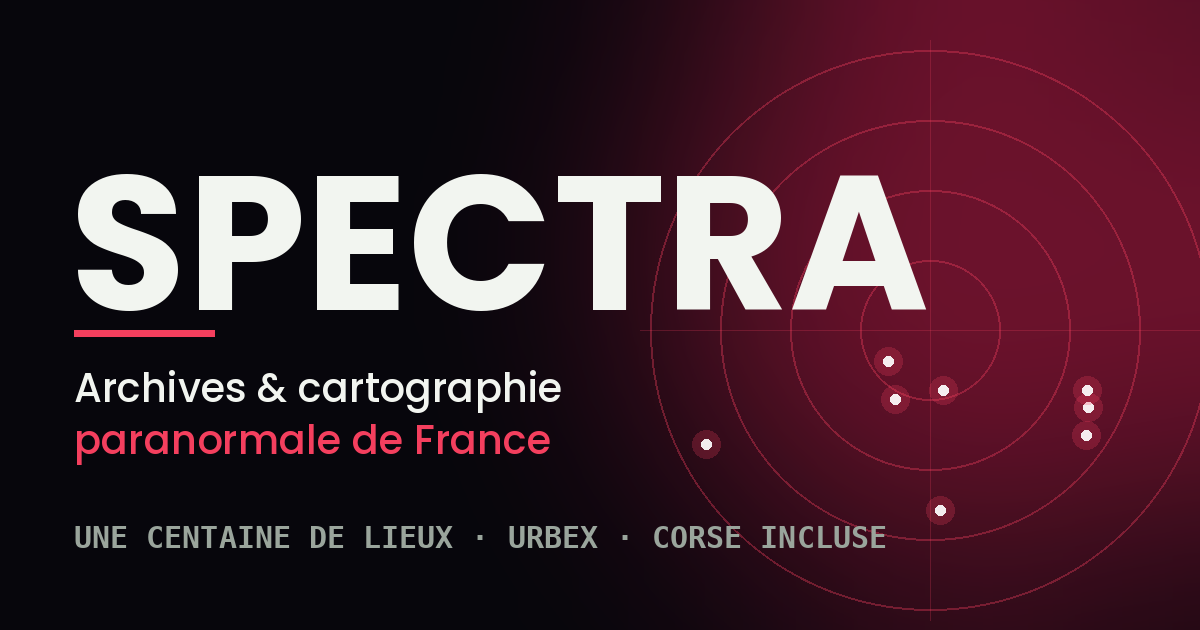
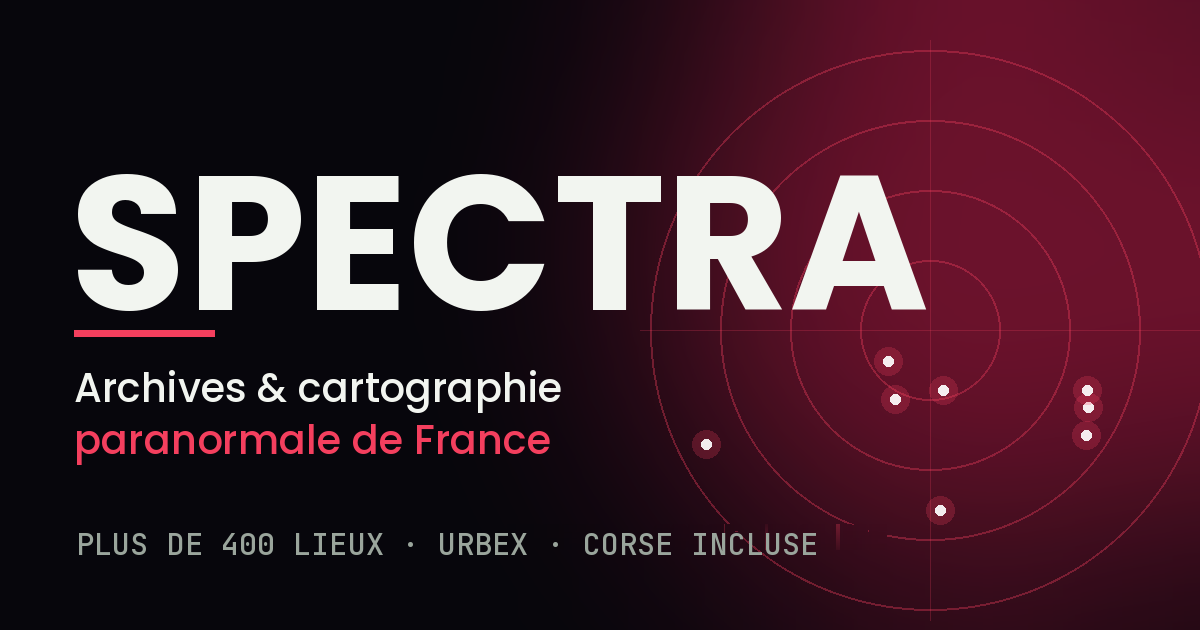
320 nouveaux lieux sourcés, textes alignés sur la réalité, recherche corrigée
- Carte : 418 lieux (98 + 320 issus de la Base Mérimée, source citée sur chaque fiche)
- Fiches : nature du lieu (phénomènes signalés / légende locale / lieu documenté) et lien vers la notice officielle
- Promesse « mise à jour mensuelle » retirée (FAQ, CGV) : enrichissement régulier, sans fréquence garantie
- FAQ « D'où viennent les lieux ? » réécrite honnêtement ; crédit Base Mérimée (Licence Ouverte 2.0) dans les mentions légales
- Compteurs exacts (418), meta/OG « plus de 400 lieux », nouvelle image de partage
- Carte en canvas (performances avec 418 points), liste explicite des colonnes lues
- Correctif : un clic sur un résultat de recherche était perdu (la liste se reconstruisait au changement de focus)

Claude-Session: https://claude.ai/code/session_01CKe4XveHQUM5tHFRDoZMZk

Changed region(s): [[0.0617, 0.8143, 0.74, 0.9048]]

diff --git a/index.html b/index.html
@@ -4,7 +4,7 @@
 <meta charset="utf-8">
 <meta name="viewport" content="width=device-width, initial-scale=1, viewport-fit=cover">
 <title>SPECTRA – Archives &amp; Cartographie Paranormale de France</title>
-<meta name="description" content="Carte interactive d’une centaine de lieux hantés, urbex et légendes de France et de Corse : histoire, phénomènes signalés et indice de peur pour chaque lieu.">
+<meta name="description" content="Carte interactive de plus de 400 lieux de France et de Corse : hantés, légendes, urbex et histoire sombre. Chaque fiche cite sa source et donne un indice de peur.">
 <link rel="canonical" href="https://spectracarte.com/">
 <meta name="theme-color" content="#07060C">
 <link rel="icon" href="/favicon.svg" type="image/svg+xml">
@@ -16,14 +16,14 @@
 <meta property="og:locale" content="fr_FR">
 <meta property="og:url" content="https://spectracarte.com/">
 <meta property="og:title" content="SPECTRA – Archives &amp; Cartographie Paranormale de France">
-<meta property="og:description" content="Une centaine de lieux hantés et urbex en France et en Corse, sur une carte interactive. Découvre ceux qui sont près de chez toi.">
+<meta property="og:description" content="Plus de 400 lieux hantés, urbex et à l’histoire sombre en France et en Corse, sur une carte interactive. Découvre ceux qui sont près de chez toi.">
 <meta property="og:image" content="https://spectracarte.com/og.png">
 <meta property="og:image:width" content="1200">
 <meta property="og:image:height" content="630">
 <meta property="og:image:alt" content="SPECTRA, archives et cartographie paranormale de France">
 <meta name="twitter:card" content="summary_large_image">
 <meta name="twitter:title" content="SPECTRA – Archives &amp; Cartographie Paranormale de France">
-<meta name="twitter:description" content="Une centaine de lieux hantés et urbex en France et en Corse, sur une carte interactive.">
+<meta name="twitter:description" content="Plus de 400 lieux hantés, urbex et à l’histoire sombre en France et en Corse, sur une carte interactive.">
 <meta name="twitter:image" content="https://spectracarte.com/og.png">
 <link rel="preload" href="/fonts/oswald-700.woff2" as="font" type="font/woff2" crossorigin>
 <link rel="preload" href="/fonts/plus-jakarta-sans-500.woff2" as="font" type="font/woff2" crossorigin>
@@ -31,7 +31,7 @@
 <link rel="stylesheet" href="/style.css?v=9c514f4e">
 <script type="application/ld+json">{"@context": "https://schema.org", "@graph": [{"@type": "WebSite", "@id": "https://spectracarte.com/#site", "url": "https://spectracarte.com/", "name": "SPECTRA", "inLanguage": "fr-FR", "description": "Carte interactive de lieux hantés, urbex et légendes de France et de Corse."}, {"@type": "Organization", "@id": "https://spectracarte.com/#org", "name": "SPECTRA", "url": "https://spectracarte.com/", "logo": "https://spectracarte.com/icon-512.png", "email": "spectraa@proton.me"}]}</script>
 <script defer src="/vendor/supabase-js-2.118.0.js"></script>
-<script defer src="/app.js?v=ecd54326"></script>
+<script defer src="/app.js?v=5376c55c"></script>
 </head>
 <body>
 <a class="skip" href="#main">Aller au contenu</a>
@@ -44,14 +44,14 @@
 <section class="hero"><div class="wm" aria-hidden="true">Spectra</div><div class="w">
 <h1>EXPLORE LES LIEUX LES PLUS HANTÉS <span class="g">DE FRANCE.</span></h1>
 <button class="btn big" data-a="go" style="max-width:420px;margin:0">Explorer maintenant →</button>
-<div class="ph" aria-hidden="true"><div class="st"><span>9:41</span><span>●●● ▮</span></div><div class="pt"><b class="an">SPECTRA</b><span class="bg2"><span class="nbl">98</span> Spots Actifs</span></div><div class="sr">🔍 Rennes, Paris, Marseille, Corse...</div><div id="m1"></div><div class="pc"><div><b class="an">CHÂTEAU DE FOUGERET (86)</b><div class="mono sm g">Indice de peur 5/5</div></div><span class="btn s">Inspecter →</span></div></div>
-<div class="trust"><i>✓</i><div style="text-align:left"><b class="an" style="font-size:1rem">ARCHIVES PARANORMALES &amp; URBEX DE FRANCE 🇫🇷</b><div class="mut sm"><span class="nbl">98</span> lieux documentés (France &amp; Corse) • Mise à jour mensuelle</div></div></div>
+<div class="ph" aria-hidden="true"><div class="st"><span>9:41</span><span>●●● ▮</span></div><div class="pt"><b class="an">SPECTRA</b><span class="bg2"><span class="nbl">418</span> lieux</span></div><div class="sr">🔍 Rennes, Paris, Marseille, Corse...</div><div id="m1"></div><div class="pc"><div><b class="an">CHÂTEAU DE FOUGERET (86)</b><div class="mono sm g">Indice de peur 5/5</div></div><span class="btn s">Inspecter →</span></div></div>
+<div class="trust"><i>✓</i><div style="text-align:left"><b class="an" style="font-size:1rem">ARCHIVES PARANORMALES &amp; URBEX DE FRANCE 🇫🇷</b><div class="mut sm"><span class="nbl">418</span> lieux documentés (France &amp; Corse) • Sources citées</div></div></div>
 </div></section>
 <section class="sec" id="spots"><div class="w hrow"><h2>TOP SPOTS <span class="g">EN FRANCE</span></h2><div><button class="ar" data-a="sc" data-t="#cs" data-d="-1" aria-label="Précédent">‹</button><button class="ar" data-a="sc" data-t="#cs" data-d="1" aria-label="Suivant">›</button></div></div><div class="car" id="cs" tabindex="0" role="region" aria-label="Top spots en France"><article class="spot" style="background:radial-gradient(circle at 50% 28%,#3f1228,#07060C 78%)"><em>🏰</em><img src="https://commons.wikimedia.org/wiki/Special:FilePath/Fougeret_castle_86.JPG?width=640" alt="CHÂTEAU DE FOUGERET" loading="lazy" referrerpolicy="no-referrer" decoding="async" data-rm=""><a class="cr" href="https://commons.wikimedia.org/wiki/File:Fougeret_castle_86.JPG" target="_blank" rel="noopener">Photo : Wikimedia Commons</a><span class="bd">NOUVELLE-AQUITAINE</span><h3>CHÂTEAU DE FOUGERET</h3></article><article class="spot" style="background:radial-gradient(circle at 50% 28%,#241b4a,#07060C 78%)"><em>🌲</em><img src="https://commons.wikimedia.org/wiki/Special:FilePath/Val_sans_retour_-_rocher_des_faux_amants_(Paimpont).jpg?width=640" alt="FORÊT DE BROCÉLIANDE" loading="lazy" referrerpolicy="no-referrer" decoding="async" data-rm=""><a class="cr" href="https://commons.wikimedia.org/wiki/File:Val_sans_retour_-_rocher_des_faux_amants_(Paimpont).jpg" target="_blank" rel="noopener">Photo : Wikimedia Commons</a><span class="bd">BRETAGNE</span><h3>FORÊT DE BROCÉLIANDE</h3></article><article class="spot" style="background:radial-gradient(circle at 50% 28%,#3a1030,#07060C 78%)"><em>💀</em><img src="https://commons.wikimedia.org/wiki/Special:FilePath/Catacombes_de_Paris.JPG?width=640" alt="CATACOMBES DE PARIS" loading="lazy" referrerpolicy="no-referrer" decoding="async" data-rm=""><a class="cr" href="https://commons.wikimedia.org/wiki/File:Catacombes_de_Paris.JPG" target="_blank" rel="noopener">Photo : Wikimedia Commons</a><span class="bd">ÎLE-DE-FRANCE</span><h3>CATACOMBES DE PARIS</h3></article><article class="spot" style="background:radial-gradient(circle at 50% 28%,#1f2150,#07060C 78%)"><em>⚓</em><img src="https://commons.wikimedia.org/wiki/Special:FilePath/Ch%C3%A2teau_d'If_(Marseille).JPG?width=640" alt="CHÂTEAU D’IF, MARSEILLE" loading="lazy" referrerpolicy="no-referrer" decoding="async" data-rm=""><a class="cr" href="https://commons.wikimedia.org/wiki/File:Ch%C3%A2teau_d'If_(Marseille).JPG" target="_blank" rel="noopener">Photo : Wikimedia Commons</a><span class="bd">PACA</span><h3>CHÂTEAU D’IF, MARSEILLE</h3></article><article class="spot" style="background:radial-gradient(circle at 50% 28%,#3b1424,#07060C 78%)"><em>⚰</em><img src="https://commons.wikimedia.org/wiki/Special:FilePath/Basilique_Saint_Michel_-_Bordeaux.jpg?width=640" alt="BASILIQUE SAINT-MICHEL" loading="lazy" referrerpolicy="no-referrer" decoding="async" data-rm=""><a class="cr" href="https://commons.wikimedia.org/wiki/File:Basilique_Saint_Michel_-_Bordeaux.jpg" target="_blank" rel="noopener">Photo : Wikimedia Commons</a><span class="bd">BORDEAUX</span><h3>BASILIQUE SAINT-MICHEL</h3></article><article class="spot" style="background:radial-gradient(circle at 50% 28%,#2b1a4d,#07060C 78%)"><em>🏯</em><img src="https://commons.wikimedia.org/wiki/Special:FilePath/Fort_de_Loyasse_(nord).JPG?width=640" alt="FORT DE LOYASSE" loading="lazy" referrerpolicy="no-referrer" decoding="async" data-rm=""><a class="cr" href="https://commons.wikimedia.org/wiki/File:Fort_de_Loyasse_(nord).JPG" target="_blank" rel="noopener">Photo : Wikimedia Commons</a><span class="bd">LYON</span><h3>FORT DE LOYASSE</h3></article><article class="spot" style="background:radial-gradient(circle at 50% 28%,#40162a,#07060C 78%)"><em>⛪</em><img src="https://commons.wikimedia.org/wiki/Special:FilePath/Mont-Saint-Michel-At-Night.jpg?width=640" alt="MONT-SAINT-MICHEL" loading="lazy" referrerpolicy="no-referrer" decoding="async" data-rm=""><a class="cr" href="https://commons.wikimedia.org/wiki/File:Mont-Saint-Michel-At-Night.jpg" target="_blank" rel="noopener">Photo : Wikimedia Commons</a><span class="bd">NORMANDIE</span><h3>MONT-SAINT-MICHEL</h3></article><article class="spot" style="background:radial-gradient(circle at 50% 28%,#2a1747,#07060C 78%)"><em>🏚</em><img src="https://commons.wikimedia.org/wiki/Special:FilePath/Occi_ruines.jpg?width=640" alt="VILLAGE D’OCCI" loading="lazy" referrerpolicy="no-referrer" decoding="async" data-rm=""><a class="cr" href="https://commons.wikimedia.org/wiki/File:Occi_ruines.jpg" target="_blank" rel="noopener">Photo : Wikimedia Commons</a><span class="bd">CORSE</span><h3>VILLAGE D’OCCI</h3></article></div></section>
-<section class="sec" id="carte"><div class="w" style="text-align:center"><div class="num mono" style="font-family:Oswald,'Oswald Fallback',Impact,sans-serif"><span class="nbl">98</span></div><h2>LIEUX PARANORMAUX &amp; URBEX RECENSÉS EN <span class="g">FRANCE</span></h2><p class="mut">De la Bretagne à la Corse, de Paris à Marseille : chaque lieu est placé sur la carte à partir de ses coordonnées.</p><div id="m2" style="margin-top:20px"></div></div></section>
+<section class="sec" id="carte"><div class="w" style="text-align:center"><div class="num mono" style="font-family:Oswald,'Oswald Fallback',Impact,sans-serif"><span class="nbl">418</span></div><h2>LIEUX PARANORMAUX &amp; URBEX RECENSÉS EN <span class="g">FRANCE</span></h2><p class="mut">De la Bretagne à la Corse, de Paris à Marseille : chaque lieu est placé sur la carte à partir de ses coordonnées.</p><div id="m2" style="margin-top:20px"></div></div></section>
 <section class="sec" id="avis"><div class="w hrow"><h2>CE QUE CONTIENT <span class="g">TA CARTE.</span></h2></div><div class="w" style="padding-bottom:12px"><button class="ar" data-a="sc" data-t="#rv" data-d="-1" aria-label="Précédent" style="margin:0">‹</button><button class="ar" data-a="sc" data-t="#rv" data-d="1" aria-label="Suivant">›</button></div><div class="car" id="rv" tabindex="0" role="region" aria-label="Ce que contient la carte"><article class="rv"><div style="font-size:2rem">🗺</div><h3 style="margin:10px 0 6px">Toute la France et la Corse</h3><p class="mut" style="margin:0">Une carte interactive avec chaque lieu positionné par ses coordonnées, de la Bretagne à Bonifacio.</p></article><article class="rv"><div style="font-size:2rem">📜</div><h3 style="margin:10px 0 6px">Un dossier par lieu</h3><p class="mut" style="margin:0">L’histoire, la légende et les phénomènes rapportés, pour savoir ce que tu vas voir avant d’y aller.</p></article><article class="rv"><div style="font-size:2rem">😱</div><h3 style="margin:10px 0 6px">Un indice de peur</h3><p class="mut" style="margin:0">Chaque lieu est noté de 1 à 5 : du simple frisson à l’expédition la plus oppressante.</p></article><article class="rv"><div style="font-size:2rem">🔎</div><h3 style="margin:10px 0 6px">Des filtres</h3><p class="mut" style="margin:0">Par région, par type de lieu (château, asile, forêt, crypte…) et par niveau de peur.</p></article><article class="rv"><div style="font-size:2rem">⚠</div><h3 style="margin:10px 0 6px">Les infos d’accès</h3><p class="mut" style="margin:0">Lieu public, visite payante ou propriété privée : tu sais ce qui est autorisé avant de partir.</p></article></div><div id="dt" aria-hidden="true" style="text-align:center;letter-spacing:6px;color:var(--mut)">● ○ ○ ○ ○</div>
 <svg viewBox="0 0 400 40" aria-hidden="true" style="width:100%;display:block;margin-top:28px;filter:drop-shadow(0 0 6px #F43F5E)"><path d="M0 24Q100 0 200 22T400 16" fill="none" stroke="#F43F5E" stroke-width="2"/></svg></section>
-<section class="sec" id="faq"><div class="w"><h2>LES VRAIES <span class="g">QUESTIONS.</span></h2><p><button class="btn gh" data-a="go">Explorer maintenant ↗</button></p><div id="fq"><div class="fq o"><button data-a="fq" aria-expanded="true" aria-controls="fa0">Combien ça coûte ?<i aria-hidden="true">+</i></button><p id="fa0">Deux formules au choix : l’Abonnement Mensuel à 9,99 €/mois (sans engagement, résiliable en ligne à tout moment) ou le Pass Annuel à 29,99 €/an (soit 2,49 €/mois, tu économises 75 %). Les deux donnent accès à toute la carte de France + Corse et aux mises à jour mensuelles.</p></div><div class="fq"><button data-a="fq" aria-expanded="false" aria-controls="fa1">Est-ce légal ?<i aria-hidden="true">+</i></button><p id="fa1">Spectra recense uniquement l’histoire, les légendes et la localisation publique des sites. Certains lieux sont accessibles librement (forêts, ruines publiques), tandis que d’autres sont des propriétés privées nécessitant une autorisation.</p></div><div class="fq"><button data-a="fq" aria-expanded="false" aria-controls="fa2">D’où viennent les lieux ?<i aria-hidden="true">+</i></button><p id="fa2">Nos dossiers sont compilés à partir d’archives historiques, de récits locaux, d’enquêtes paranormales documentées et des contributions vérifiées de la communauté.</p></div><div class="fq"><button data-a="fq" aria-expanded="false" aria-controls="fa3">Ma position est-elle partagée ?<i aria-hidden="true">+</i></button><p id="fa3">Non. Ta position GPS précise n’est jamais envoyée à nos serveurs : elle reste dans ton navigateur. Seule une zone arrondie (environ 10 km) sert à compter les lieux proches de toi. Le code postal de ta commune est enregistré dans ton profil si tu crées un compte ; il n’est jamais revendu.</p></div><div class="fq"><button data-a="fq" aria-expanded="false" aria-controls="fa4">Comment résilier ?<i aria-hidden="true">+</i></button><p id="fa4">Clique sur « Résilier mon abonnement » en bas de n’importe quelle page (ou sur « Mon abonnement » dans ta carte), ouvre le lien que tu reçois par e-mail, puis clique sur « Annuler l’abonnement ». Sans préavis ni justification. Tu conserves ton accès jusqu’à la fin de la période déjà payée.</p></div><div class="fq"><button data-a="fq" aria-expanded="false" aria-controls="fa5">Faut-il installer une app ?<i aria-hidden="true">+</i></button><p id="fa5">Aucune installation requise. Spectra fonctionne directement depuis ton navigateur sur iPhone, Android et ordinateur, et peut être ajouté à ton écran d’accueil.</p></div></div></div></section>
+<section class="sec" id="faq"><div class="w"><h2>LES VRAIES <span class="g">QUESTIONS.</span></h2><p><button class="btn gh" data-a="go">Explorer maintenant ↗</button></p><div id="fq"><div class="fq o"><button data-a="fq" aria-expanded="true" aria-controls="fa0">Combien ça coûte ?<i aria-hidden="true">+</i></button><p id="fa0">Deux formules au choix : l’Abonnement Mensuel à 9,99 €/mois (sans engagement, résiliable en ligne à tout moment) ou le Pass Annuel à 29,99 €/an (soit 2,49 €/mois, tu économises 75 %). Les deux donnent accès à toute la carte de France + Corse. De nouveaux lieux sont ajoutés régulièrement, sans fréquence garantie.</p></div><div class="fq"><button data-a="fq" aria-expanded="false" aria-controls="fa1">Est-ce légal ?<i aria-hidden="true">+</i></button><p id="fa1">Spectra recense uniquement l’histoire, les légendes et la localisation publique des sites. Certains lieux sont accessibles librement (forêts, ruines publiques), tandis que d’autres sont des propriétés privées nécessitant une autorisation.</p></div><div class="fq"><button data-a="fq" aria-expanded="false" aria-controls="fa2">D’où viennent les lieux ?<i aria-hidden="true">+</i></button><p id="fa2">Les fiches s’appuient sur des sources écrites : la Base Mérimée du ministère de la Culture (données ouvertes, monuments protégés), des récits et légendes locales rapportés par la presse ou le tourisme local. Chaque fiche récente cite sa source. Tous les lieux ne sont pas « hantés » : beaucoup sont des sites à l’histoire sombre (prisons, hôpitaux, ossuaires, forts, ruines) où aucun phénomène n’est établi.</p></div><div class="fq"><button data-a="fq" aria-expanded="false" aria-controls="fa3">Ma position est-elle partagée ?<i aria-hidden="true">+</i></button><p id="fa3">Non. Ta position GPS précise n’est jamais envoyée à nos serveurs : elle reste dans ton navigateur. Seule une zone arrondie (environ 10 km) sert à compter les lieux proches de toi. Le code postal de ta commune est enregistré dans ton profil si tu crées un compte ; il n’est jamais revendu.</p></div><div class="fq"><button data-a="fq" aria-expanded="false" aria-controls="fa4">Comment résilier ?<i aria-hidden="true">+</i></button><p id="fa4">Clique sur « Résilier mon abonnement » en bas de n’importe quelle page (ou sur « Mon abonnement » dans ta carte), ouvre le lien que tu reçois par e-mail, puis clique sur « Annuler l’abonnement ». Sans préavis ni justification. Tu conserves ton accès jusqu’à la fin de la période déjà payée.</p></div><div class="fq"><button data-a="fq" aria-expanded="false" aria-controls="fa5">Faut-il installer une app ?<i aria-hidden="true">+</i></button><p id="fa5">Aucune installation requise. Spectra fonctionne directement depuis ton navigateur sur iPhone, Android et ordinateur, et peut être ajouté à ton écran d’accueil.</p></div></div></div></section>
 </main>
 <footer><p style="margin:0">© 2026 Spectra</p><nav aria-label="Informations légales et aide"><a class="lk0 sm" href="/charte">Charte</a><a class="lk0 sm" href="/cgv">CGV</a><a class="lk0 sm" href="/mentions-legales">Mentions légales</a><a class="lk0 sm" href="/confidentialite">Confidentialité</a><button class="lk0 sm" data-a="pg" data-k="contact">Contact</button><button class="lk0 sm" data-a="pg" data-k="retrait">Demande de retrait</button></nav><p style="margin:4px 0 14px"><button class="btn gh s" data-a="pg" data-k="resil">Résilier mon abonnement</button></p><p style="margin:0">La carte est un catalogue d’informations et de légendes recensées, pas une autorisation d’entrer sur une propriété.</p></footer>
 </div>

diff --git a/app.js b/app.js
@@ -87,7 +87,7 @@ const REG=["Bretagne","Île-de-France","Provence-Alpes-Côte d'Azur","Nouvelle-A
 const CAT=["Château & manoir","Asile, sanatorium & urbex","Forêt & lieu maudit","Cimetière & crypte","Monument religieux & abbaye","Légende & lieu mystérieux"];
 const CATCODE={chateau:0,sanatorium:1,hopital:1,urbex:1,foret:2,cimetiere:3,souterrain:3,abbaye:4,autre:5};
 const catOf=c=>c in CATCODE?CATCODE[c]:Math.max(0,CAT.indexOf(c));
-let NBL="…",NBN=0,GOOGLE_ON=false;const setNb=n=>{NBN=n;NBL=n>=300?"300+":n>=100?"100+":String(n);$$(".nbl").forEach(e=>e.textContent=NBL)};if(SB)SB.rpc("get_spots_total").then(r=>{if(r.data)setNb(r.data)});
+let NBL="…",NBN=0,GOOGLE_ON=false;const setNb=n=>{NBN=n;NBL=String(n);$$(".nbl").forEach(e=>e.textContent=NBL)};if(SB)SB.rpc("get_spots_total").then(r=>{if(r.data)setNb(r.data)});
 const hav=(a,b,c,d)=>{const r=x=>x*Math.PI/180,u=r(c-a),v=r(d-b),h=Math.sin(u/2)**2+Math.cos(r(a))*Math.cos(r(c))*Math.sin(v/2)**2;return 12742*Math.asin(Math.sqrt(h))};
 const save=()=>{try{localStorage.setItem("spectra_user",JSON.stringify({pseudo:S.pseudo,email:S.email,city:S.city,lat:S.lat,lng:S.lng,fear:S.fear,age:S.age,cp:S.cp}))}catch(e){}};
 const FLD=a=>a.map(([l,t,v])=>t=="area"?`<textarea class="in" rows="5" placeholder="${l}" aria-label="${l}"></textarea>`:`<input class="in" type="${t=="email"?"email":"text"}" placeholder="${l}" aria-label="${l}" value="${v||""}">`).join("");
@@ -109,7 +109,7 @@ function gate(){
  show("#gt");TRK("gate");const c=esc(S.city.toUpperCase()),p=esc(S.pseudo.toUpperCase()),n=S.cnt;
  $("#gt").innerHTML=`<div class="gb">${RAD(S.near)}</div><div class="gate"><div class="fb">${LG}</div><div class="cd"><span class="tier g" style="border-color:var(--g);font-size:.9rem;margin-top:0">${S.nearN>0?`✓ ${S.nearN} LIEU${S.nearN>1?"X":""} À MOINS DE 100 KM DE ${c}`:`✓ ${n} LIEUX RÉFÉRENCÉS · DÉPART : ${c}`}</span><h1>CRÉE TON COMPTE POUR RÉVÉLER LA CARTE, <span class="g">${p}</span></h1><p class="mut">Accède aux dossiers de ton secteur et à la carte interactive de France et de Corse.</p><div id="ggw"${GOOGLE_ON?"":" hidden"}><button class="btn wh big" data-a="gg">${GG} Continuer avec Google</button><p class="mut sm" style="text-align:center;margin:14px 0 0">ou avec ton e-mail</p></div><input class="in" id="em" type="email" aria-label="Adresse e-mail" placeholder="E-mail" autocomplete="email"><div style="position:relative"><input class="in" id="pw" type="password" aria-label="Mot de passe, 8 caractères minimum" placeholder="Mot de passe (8 caractères min.)" autocomplete="new-password"><button class="lk0" data-a="eye" style="position:absolute;right:6px;top:21px;min-width:44px;min-height:44px" aria-label="Afficher le mot de passe">👁</button></div><button class="btn big" id="sbtn" data-a="sub">Créer mon compte et continuer →</button><div id="aerr" class="err" role="alert" hidden></div><p class="pay-note">En créant ton compte, tu confirmes avoir pris connaissance de la <a href="/confidentialite" target="_blank" rel="noopener">politique de confidentialité</a>.</p></div></div>`;
 }
-const FEAT=[["Accès à tous les lieux de France &amp; Corse",1],["Carte interactive avec la position de chaque lieu",1],["Fiches historiques et phénomènes signalés",1],["Filtres par région, catégorie et indice de peur",1],["Nouveaux lieux ajoutés chaque mois",1],["Prix bloqué pendant 12 mois",0],["Un seul paiement pour toute l’année",0],["75 % d’économie (2,49 €/mois)",0]];
+const FEAT=[["Accès à tous les lieux de France &amp; Corse",1],["Carte interactive avec la position de chaque lieu",1],["Fiches avec histoire, légendes et sources citées",1],["Filtres par région, catégorie et indice de peur",1],["Nouveaux lieux ajoutés régulièrement",1],["Prix bloqué pendant 12 mois",0],["Un seul paiement pour toute l’année",0],["75 % d’économie (2,49 €/mois)",0]];
 const PLAN={m:{link:()=>STRIPE_MONTHLY_LINK,cta:"M’abonner à la formule mensuelle · 9,99 €/mois →"},y:{link:()=>STRIPE_ANNUAL_LINK,cta:"M’abonner à la formule annuelle · 29,99 €/an →"}};
 function pay(){
  if(!S.uid){toast("Connecte-toi pour continuer.");return A.loginForm()}
@@ -161,8 +161,8 @@ const loadLeaflet=()=>typeof L!="undefined"?Promise.resolve():LEAF||(LEAF=new Pr
 async function openMap(){
  if(!SB)return svcDown();
  if(!(await isPrem()))return pay();
- const{data,error}=await SB.from("spots").select("*");if(error||!data)return toast("Chargement des lieux impossible. Réessaie dans un instant.");
- const all=data.map(r=>({id:r.id,name:esc(r.name||""),city:esc(r.city||""),dep:esc(r.department||""),region:r.region||"",lat:+r.latitude,lng:+r.longitude,cat:catOf(r.category),fear:+r.fear_level||1,ph:esc(r.description||""),h:esc(r.history||""),acc:esc(r.access_tips||""),q:norm((r.name||"")+" "+(r.city||"")+" "+(r.department||"")),d:S.lat?hav(S.lat,S.lng,r.latitude,r.longitude):null}));
+ const{data,error}=await SB.from("spots").select("id,name,category,region,department,city,latitude,longitude,fear_level,description,history,access_tips,source_label,source_url,nature");if(error||!data)return toast("Chargement des lieux impossible. Réessaie dans un instant.");
+ const all=data.map(r=>({id:r.id,name:esc(r.name||""),city:esc(r.city||""),dep:esc(r.department||""),region:r.region||"",lat:+r.latitude,lng:+r.longitude,cat:catOf(r.category),fear:+r.fear_level||1,ph:esc(r.description||""),h:esc(r.history||""),acc:esc(r.access_tips||""),nat:r.nature||"",sl:esc(r.source_label||""),su:/^https:\/\//.test(r.source_url||"")?esc(r.source_url):"",q:norm((r.name||"")+" "+(r.city||"")+" "+(r.department||"")),d:S.lat?hav(S.lat,S.lng,r.latitude,r.longitude):null}));
  const byId=new Map(all.map(p=>[String(p.id),p]));
  show("#ap");
  $("#ap").innerHTML=`<div class="fb">${LG}<div class="hr"><span class="mono sm hidem">${esc(S.pseudo||"Explorateur")}</span><button class="lk0 sm" data-a="pg" data-k="resil">Mon abonnement</button><button class="lk0 sm" data-a="logout">Se déconnecter</button><button class="lk0" data-a="home">Quitter ✕</button></div></div><div class="w" style="max-width:1100px"><h1 class="vh">Ta carte Spectra</h1><div class="flt"><input class="in" id="ft" aria-label="Rechercher une ville ou un lieu" placeholder="🔍 Ville ou lieu..."><select class="in" id="fr" aria-label="Région"><option value="">Toutes les régions</option>${REG.map(r=>`<option value="${esc(r)}">${esc(r)}</option>`).join("")}</select><select class="in" id="fk" aria-label="Catégorie"><option value="">Toutes catégories</option>${CAT.map((c,i)=>`<option value="${i}">${c}</option>`).join("")}</select><label class="mono sm">Indice de peur ≥ <b id="fv">1</b>/${FMAX}<input type="range" id="fs" min="1" max="${FMAX}" value="1"></label></div><p class="mono sm mut" id="fcnt" role="status" style="margin:8px 0 0"></p><div id="mp" role="region" aria-label="Carte des lieux"></div><details class="plist"><summary id="lsm">Liste des lieux</summary><ul id="lsu"></ul></details><div class="cd" id="dz" aria-live="polite" style="max-width:none;margin-bottom:40px">Touche un point rouge ou choisis un lieu dans la liste : la carte zoome dessus et son résumé s’affiche. Le dossier complet apparaît ici.</div></div>`;
@@ -170,24 +170,25 @@ async function openMap(){
  const ok=typeof L!="undefined";
  if(ok){
   try{MAPL&&MAPL.remove()}catch(e){}
-  MAPL=L.map("mp").setView(S.lat?[S.lat,S.lng]:[46.6,2.4],S.lat?8:6);
+  MAPL=L.map("mp",{preferCanvas:true}).setView(S.lat?[S.lat,S.lng]:[46.6,2.4],S.lat?8:6);
   const OSMA='© <a href="https://www.openstreetmap.org/copyright" target="_blank" rel="noopener">OpenStreetMap</a>';
   L.tileLayer("https://tile.openstreetmap.org/{z}/{x}/{y}.png",{maxZoom:19,attribution:OSMA}).addTo(MAPL);L.control.scale({imperial:false}).addTo(MAPL);
   setTimeout(()=>MAPL.invalidateSize(),250);
   GRP=L.layerGroup().addTo(MAPL);CIR=null;
  }
+ const NATL={hante:["Phénomènes signalés :","PHÉNOMÈNES SIGNALÉS"],legende:["Légende locale :","LÉGENDE LOCALE"],histoire:["Lieu documenté :","LIEU DOCUMENTÉ"]};
  const sel=p=>{
-  $("#dz").innerHTML=`<p class="kk">${CAT[p.cat].toUpperCase()}</p><h2>${p.name}</h2><p class="mono sm mut">${p.city} (${p.dep}) · ${esc(p.region)}</p><div class="rowb" style="font-size:1rem"><b class="mono g">Indice de peur ${p.fear}/${FMAX}</b>${p.d!=null?`<span class="mono mut">${Math.round(p.d)} km de ${esc(S.city)}</span>`:""}</div><p><b>Phénomènes :</b> ${p.ph}</p><p class="mut">${p.h}</p><p class="mono sm mut">Coordonnées : ${p.lat.toFixed(4)}, ${p.lng.toFixed(4)}. ${p.acc}</p><a class="btn" href="https://www.google.com/maps?q=${p.lat},${p.lng}" target="_blank" rel="noopener">Ouvrir dans Google Maps</a>`;
+  $("#dz").innerHTML=`<p class="kk">${CAT[p.cat].toUpperCase()}${NATL[p.nat]?" · "+NATL[p.nat][1]:""}</p><h2>${p.name}</h2><p class="mono sm mut">${p.city} (${p.dep}) · ${esc(p.region)}</p><div class="rowb" style="font-size:1rem"><b class="mono g">Indice de peur ${p.fear}/${FMAX}</b>${p.d!=null?`<span class="mono mut">${Math.round(p.d)} km de ${esc(S.city)}</span>`:""}</div><p><b>${NATL[p.nat]?NATL[p.nat][0]:"Phénomènes :"}</b> ${p.ph}</p><p class="mut">${p.h}</p><p class="mono sm mut">Coordonnées : ${p.lat.toFixed(4)}, ${p.lng.toFixed(4)}. ${p.acc}</p>${p.sl?`<p class="mono sm mut">Source : ${p.sl}${p.su?` · <a href="${p.su}" target="_blank" rel="noopener">voir la notice</a>`:""}</p>`:""}<a class="btn" href="https://www.google.com/maps?q=${p.lat},${p.lng}" target="_blank" rel="noopener">Ouvrir dans Google Maps</a>`;
   if(!ok)return $("#dz").scrollIntoView({behavior:RM?"auto":"smooth"});
   CIR&&MAPL.removeLayer(CIR);CIR=L.circleMarker([p.lat,p.lng],{radius:16,color:"#fff",fillColor:"#F43F5E",fillOpacity:.2,weight:2}).addTo(MAPL);MAPL.flyTo([p.lat,p.lng],13,{duration:RM?0:1.2});
   const gm=`https://www.google.com/maps/dir/?api=1&destination=${p.lat},${p.lng}`;
   L.popup({maxWidth:260,autoPanPadding:[20,20]}).setLatLng([p.lat,p.lng]).setContent(`<div class="pp"><b class="pk">${CAT[p.cat]}</b><b class="pn">${p.name}</b><span>${p.city} (${p.dep}) · Peur ${p.fear}/${FMAX}${p.d!=null?` · ${Math.round(p.d)} km`:""}</span><p>${p.ph}</p><div class="ppb"><button data-a="dz">Lire le dossier</button><a href="${gm}" target="_blank" rel="noopener">Itinéraire</a></div></div>`).openOn(MAPL)};
  MAPSEL=id=>{const p=byId.get(String(id));if(p)sel(p)};
  const f=()=>{const q=norm($("#ft").value.trim()),r=$("#fr").value,k=$("#fk").value,m=+$("#fs").value;$("#fv").textContent=m;ok&&GRP.clearLayers();const shown=all.filter(p=>!(q&&!p.q.includes(q)||r&&p.region!=r||k!==""&&p.cat!=k||p.fear<m));
-  if(ok)shown.forEach(p=>L.circleMarker([p.lat,p.lng],{radius:7,color:"#F43F5E",fillColor:"#F43F5E",fillOpacity:.85,weight:2,className:"pulse"}).on("click",()=>sel(p)).addTo(GRP));
+  if(ok)shown.forEach(p=>L.circleMarker([p.lat,p.lng],{radius:7,color:"#F43F5E",fillColor:"#F43F5E",fillOpacity:.85,weight:2}).on("click",()=>sel(p)).addTo(GRP));
   const n=shown.length;$("#fcnt").textContent=n+" lieu"+(n>1?"x":"")+" affiché"+(n>1?"s":"");$("#lsm").textContent="Liste des lieux ("+n+")";
   $("#lsu").innerHTML=shown.map(p=>`<li><button data-a="pickp" data-i="${p.id}">${p.name}<small>${p.city} (${p.dep}) · Peur ${p.fear}/${FMAX}</small></button></li>`).join("")};
- ["ft","fr","fk","fs"].forEach(i=>$("#"+i).oninput=$("#"+i).onchange=f);f();
+ ["ft","fr","fk","fs"].forEach(i=>$("#"+i).oninput=f);f();
 }
 
 const fl=v=>TR.findIndex(x=>v<=x[0])+1;
@@ -247,7 +248,7 @@ const A={
  scan:async()=>{show("#sn");S.nearN=null;$("#st").textContent=`Recherche des lieux autour de ${S.city}...`;$("#cn").textContent=0;
   let near=null;
   if(SB&&S.lat){try{const r=await Promise.race([SB.rpc("get_nearby_spots_count",{p_lat:Math.round(S.lat*10)/10,p_lng:Math.round(S.lng*10)/10,p_radius_km:100}),wait(4000).then(()=>null)]);if(r&&typeof r.data=="number")near=r.data}catch(e){}}
-  const tot=NBN||98,t=near>0?near:tot;S.nearN=near;S.cnt=t;S.near=[...Array(Math.min(20,t))].map(()=>({d:rnd()*60}));
+  const tot=NBN||418,t=near>0?near:tot;S.nearN=near;S.cnt=t;S.near=[...Array(Math.min(20,t))].map(()=>({d:rnd()*60}));
   $("#sl").textContent=near>0?"LIEUX À MOINS DE 100 KM":"LIEUX RÉFÉRENCÉS";
   const end=()=>{$("#st").textContent=near>0?`✓ ${near} lieu${near>1?"x":""} à moins de 100 km de ${S.city}, ${tot} en tout en France et en Corse`:near===0?`✓ Aucun lieu à moins de 100 km de ${S.city} : ${tot} t’attendent ailleurs en France et en Corse`:`✓ ${tot} lieux référencés en France et en Corse sont prêts`;setTimeout(gate,600)};
   let n=0;const iv=setInterval(()=>{$("#cn").textContent=++n;if(n>=t){clearInterval(iv);end()}},Math.max(24,2300/t|0))},

diff --git a/cgv.html b/cgv.html
@@ -26,7 +26,7 @@
 <h2>1. Objet</h2>
 <p>Spectra donne accès, par abonnement, à une carte en ligne de lieux paranormaux, historiques et urbex en France et en Corse, à titre informatif.</p>
 <h2>2. Offres et prix</h2>
-<p>Abonnement mensuel : 9,99 € TTC par mois, sans engagement. Pass annuel : 29,99 € TTC par an (soit 2,49 € par mois). Les deux offres donnent le même accès à la carte et à ses mises à jour mensuelles.</p>
+<p>Abonnement mensuel : 9,99 € TTC par mois, sans engagement. Pass annuel : 29,99 € TTC par an (soit 2,49 € par mois). Les deux offres donnent le même accès à la carte et aux lieux qui y sont ajoutés. Spectra enrichit la carte régulièrement mais ne s’engage ni sur une fréquence de mise à jour, ni sur un nombre de lieux ajoutés.</p>
 <h2>3. Compte et accès</h2>
 <p>L’accès à la carte nécessite un compte. L’accès est ouvert dès la confirmation du paiement. En cas de difficulté d’activation, écris à <a href="mailto:spectraa@proton.me">spectraa@proton.me</a> en indiquant l’adresse e-mail utilisée pour payer.</p>
 <h2>4. Paiement, renouvellement et résiliation</h2>

diff --git a/mentions-legales.html b/mentions-legales.html
@@ -37,6 +37,7 @@
 <ul>
 <li>Fond de carte : © contributeurs <a href="https://www.openstreetmap.org/copyright" target="_blank" rel="noopener">OpenStreetMap</a>, licence ODbL.</li>
 <li>Photographies : Wikimedia Commons ; l’auteur et la licence de chaque image sont indiqués sur sa page Wikimedia Commons, accessible depuis le lien « Photo : Wikimedia Commons » de chaque carte.</li>
+<li>Fiches de lieux : données ouvertes de la Base Mérimée (Plateforme ouverte du patrimoine, ministère de la Culture), Licence Ouverte 2.0. Chaque fiche récente renvoie à sa notice officielle ; les positions sont celles de cette base et restent indicatives.</li>
 <li>Carte interactive : Leaflet (licence BSD-2). Polices : Plus Jakarta Sans, Oswald et JetBrains Mono (licence SIL Open Font).</li>
 </ul>
 <h2>Données personnelles</h2>
